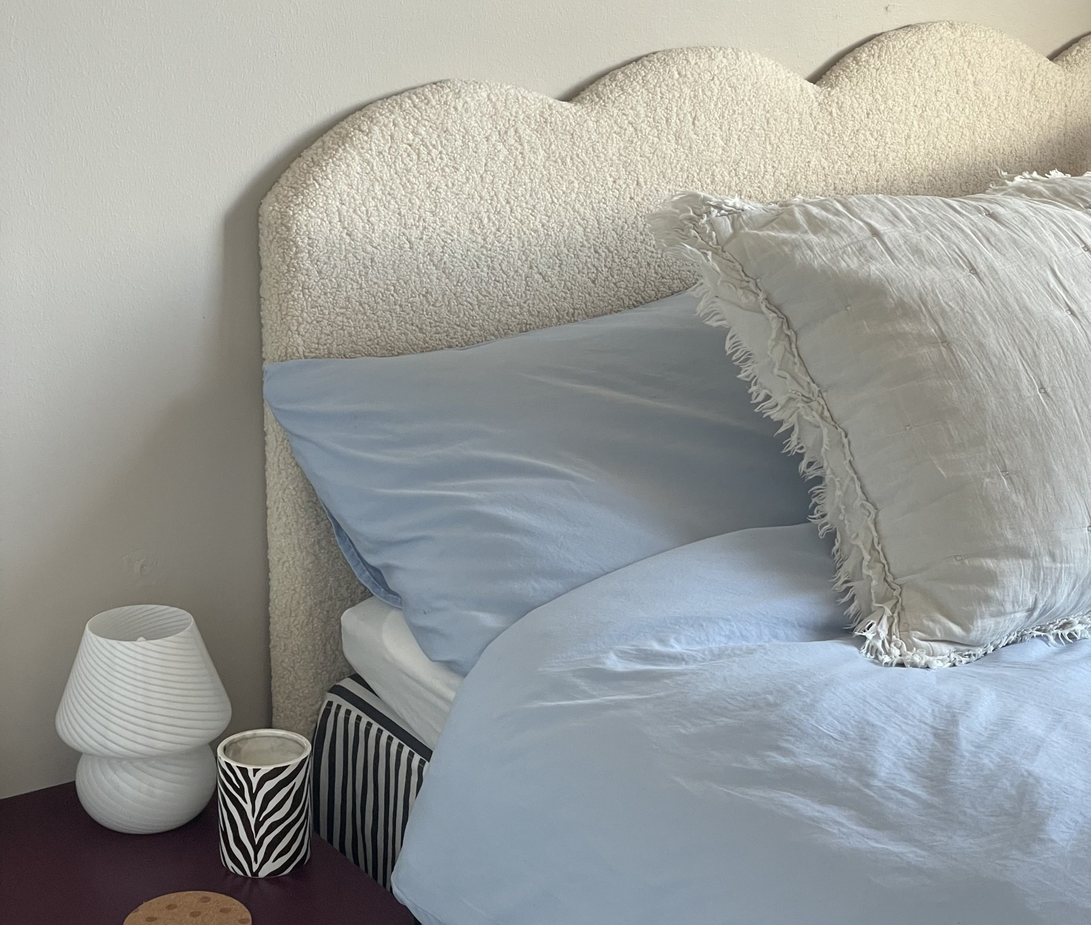
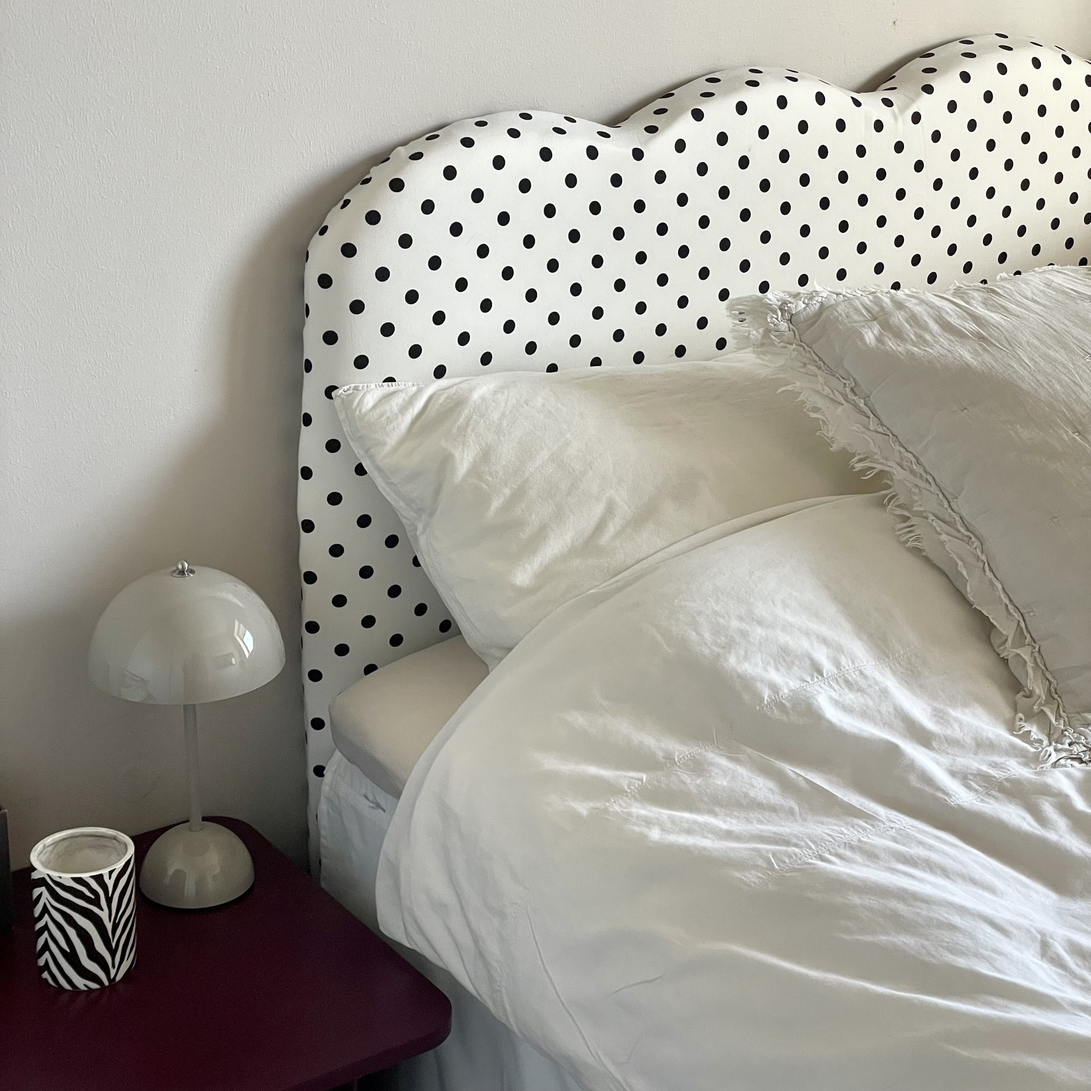
Update handmade gallery images and caption styling

diff --git a/css/style.css b/css/style.css
@@ -2259,15 +2259,18 @@ body.home-page {
 }
 
 .home-page .hobby-grid figure {
+  position: relative;
   min-width: 0;
   margin: 0;
+  overflow: hidden;
+  border-radius: 0.5rem;
 }
 
 .home-page .hobby-photo {
   overflow: hidden;
-  border-radius: 1.25rem;
+  border-radius: 0.5rem;
   background: #f2f0ee;
-  aspect-ratio: 4 / 3;
+  aspect-ratio: 1 / 1;
 }
 
 .home-page .hobby-grid img {
@@ -2275,18 +2278,21 @@ body.home-page {
   border-radius: inherit;
 }
 
-.home-page .hobby-grid figcaption {
-  margin-top: 0.65rem;
-  padding-left: 0.2rem;
-  color: #3a2b22;
-  font-size: 0.85rem;
-  font-weight: 500;
+.home-page .hobby-grid figure:nth-child(3) img {
+  object-position: 30% center;
 }
 
-@media (hover: hover) and (prefers-reduced-motion: no-preference) {
-  .home-page .hobby-grid figure:hover img.pop-in {
-    transform: scale(1.045);
-  }
+.home-page .hobby-grid figcaption {
+  position: absolute;
+  inset: auto 0 0;
+  margin: 0;
+  padding: 0.85rem 1rem;
+  background: rgb(255 255 255 / 60%);
+  color: #24160f;
+  font-size: 0.85rem;
+  font-weight: 500;
+  line-height: 1.4;
+  pointer-events: none;
 }
 
 /* Contact section follows the Work and About typography. */

diff --git a/index.html b/index.html
@@ -216,7 +216,7 @@
       <figure><div class="hobby-photo"><img src="sang.jpg" alt="A handmade upholstered headboard" /></div><figcaption>Upholstered headboard</figcaption></figure>
       <figure><div class="hobby-photo"><img src="bord.jpg" alt="A handmade coffee table" /></div><figcaption>Handmade coffee table</figcaption></figure>
       <figure><div class="hobby-photo"><img src="pall.jpg" alt="A reupholstered stool" /></div><figcaption>Reupholstered stool</figcaption></figure>
-      <figure><div class="hobby-photo"><img src="nes.jpg" alt="Handmade toiletry bags and pouches" /></div><figcaption>Sewn bags &amp; pouches</figcaption></figure>
+      <figure><div class="hobby-photo"><img src="nes.jpg" alt="Handmade toiletry bags" /></div><figcaption>Sewn toiletry bags</figcaption></figure>
     </div>
 
   </div>
